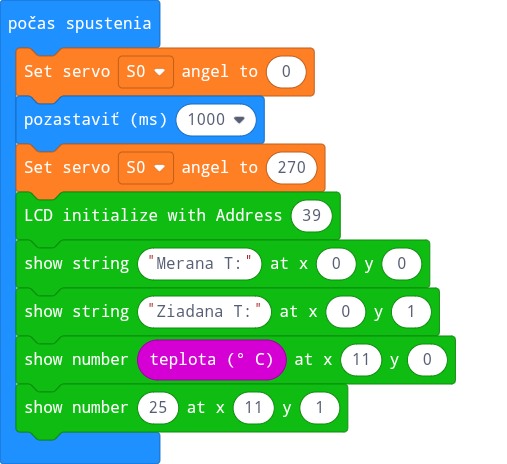
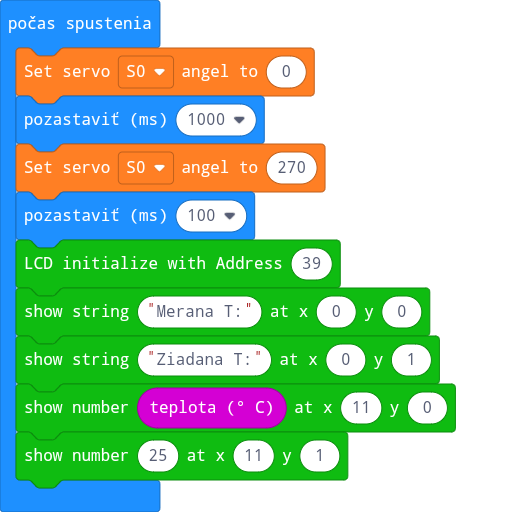
Update main.blocks, main.ts

Changed region(s): [[0.0296, 0.0905, 0.9172, 0.9655], [0.0, 0.0302, 0.2959, 0.0603]]

diff --git a/main.ts b/main.ts
@@ -1,6 +1,7 @@
 wuKong.setServoAngel(wuKong.ServoList.S0, 0)
 basic.pause(1000)
 wuKong.setServoAngel(wuKong.ServoList.S0, 270)
+basic.pause(100)
 I2C_LCD1602.LcdInit(39)
 I2C_LCD1602.ShowString("Merana T:", 0, 0)
 I2C_LCD1602.ShowString("Ziadana T:", 0, 1)
